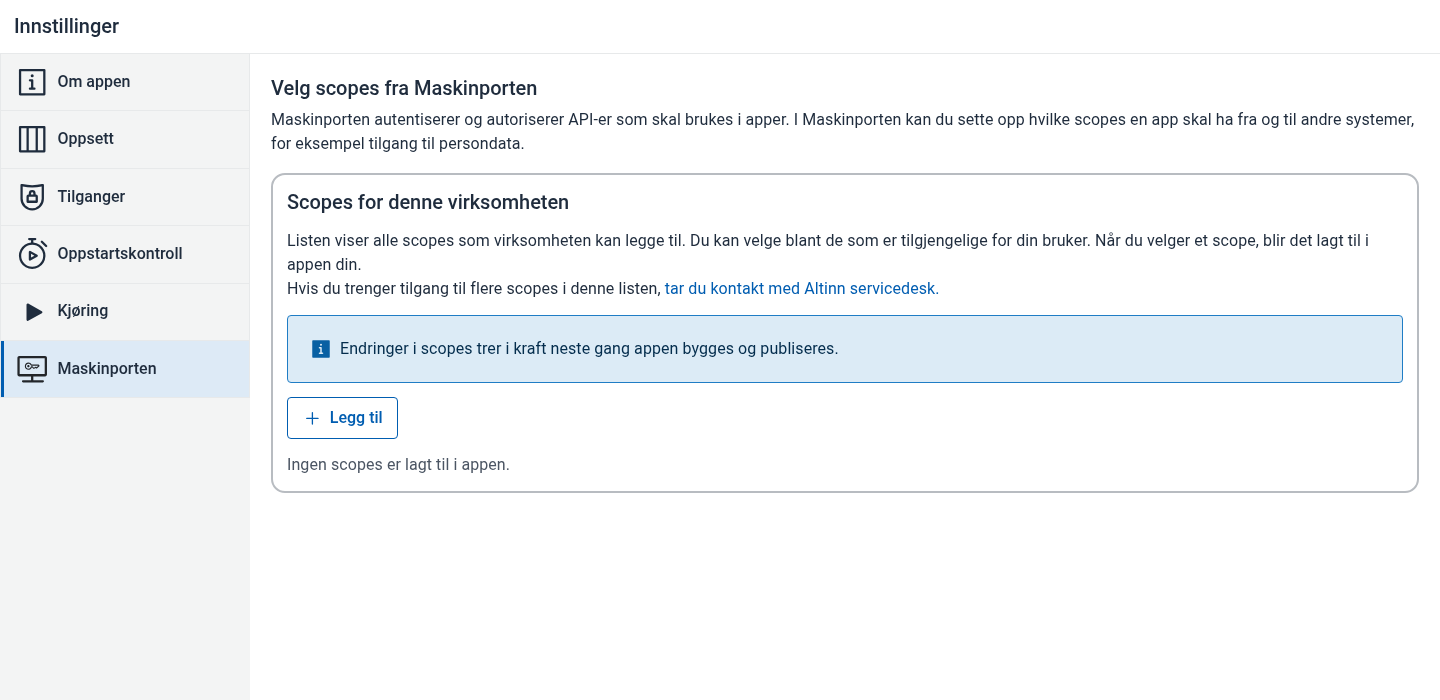
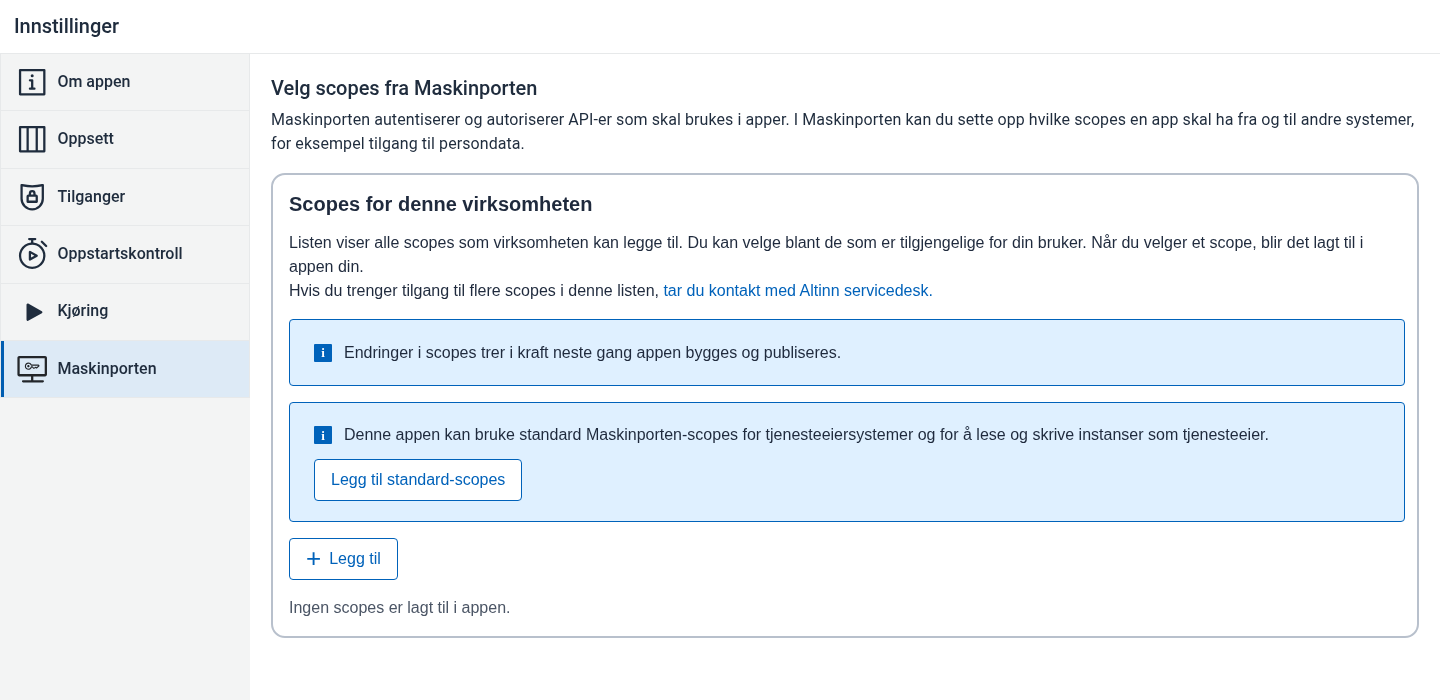
docs: update Maskinporten scopes overview screenshot

diff --git a/content/altinn-studio/v8/guides/integration/maskinporten/add-scopes/_index.en.md b/content/altinn-studio/v8/guides/integration/maskinporten/add-scopes/_index.en.md
@@ -18,9 +18,9 @@ The screenshots show the Norwegian Altinn Studio UI. The flow and placement are 
 
 ## Steps
 
-1. Open the app in Altinn Studio. Go to **Settings**, open the **Maskinporten** tab, and select **Add**.
+1. Open the app in Altinn Studio. Go to **Settings**, and open the **Maskinporten** tab. If the **Add default scopes** button is shown, you can use it to add the default scopes. Select **Add** to add other scopes manually.
 
-   ![The Maskinporten tab in app settings with the Add button](maskinporten-scopes-overview.nb.png "The Maskinporten tab in app settings.")
+   ![The Maskinporten tab in app settings with the Add default scopes and Add buttons](maskinporten-scopes-overview.nb.png "The Maskinporten tab in app settings.")
 
 2. In the **Add new scope** dialog, you can search for scopes that the organisation has access to.
 

diff --git a/content/altinn-studio/v8/guides/integration/maskinporten/add-scopes/_index.nb.md b/content/altinn-studio/v8/guides/integration/maskinporten/add-scopes/_index.nb.md
@@ -16,9 +16,9 @@ Hvis appen bare trenger standardscopene for tjenesteeier, `altinn:serviceowner`,
 
 ## Steg
 
-1. Åpne appen i Altinn Studio. Gå til **Innstillinger**, åpne fanen **Maskinporten**, og velg **Legg til**.
+1. Åpne appen i Altinn Studio. Gå til **Innstillinger**, og åpne fanen **Maskinporten**. Hvis knappen **Legg til standard-scopes** vises, kan du bruke den til å legge til standardscopene. Velg **Legg til** for å legge til andre scopes manuelt.
 
-   ![Maskinporten-fanen i appinnstillingene med knappen Legg til](maskinporten-scopes-overview.nb.png "Maskinporten-fanen i appinnstillingene.")
+   ![Maskinporten-fanen i appinnstillingene med knappene Legg til standard-scopes og Legg til](maskinporten-scopes-overview.nb.png "Maskinporten-fanen i appinnstillingene.")
 
 2. I dialogen **Legg til nytt scope** kan du søke etter scopes som virksomheten har tilgang til.
 